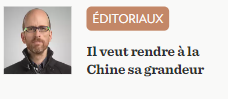
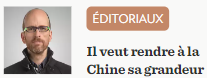
Ajout des images

diff --git a/A22_TP1_LA_PRESSE/index.html b/A22_TP1_LA_PRESSE/index.html
@@ -35,38 +35,73 @@
     <main>
 
         <div id="articles_autres">
-            <div></div>
-            <div></div>
-            <div></div>
-            <div></div>
+            <div>
+                <img src="./Capture_Section_Autres/Capture.PNG" alt="Éditoriaux">
+            </div>
+            <div>
+                <img src="./Capture_Section_Autres/Capture2.PNG" alt="" width="" height="99px">
+            </div>
+            <div>
+                <img src="./Capture_Section_Autres/Capture3.PNG" alt="" width="" height="99px">
+            </div>
+            <div>
+                <img src="./Capture_Section_Autres/Capture4.PNG" alt="" width="" height="">
+            </div>
         </div>
         
         <div class="container">
 
             <div id="articles">
-                <section id="section_top"></section>         
+                <section id="section_top">
+                    <img src="./Main_Article.PNG" alt="" width="775px" height="350px">
+                </section>         
 
                 <section id="section_milieu">
-                    <div></div>
-                    <div></div>
-                    <div></div>
+                    <div class="milieu">
+                        <img src="./Captures_Section_Milieu/Article_1_Section_Milieu.PNG" alt="">
+                    </div>
+                    <div class="milieu">
+                        <img src="./Captures_Section_Milieu/Article_2_Section_Milieu.PNG" alt="">
+                    </div>
+                    <div class="milieu">
+                        <img src="./Captures_Section_Milieu/Article_3_Section_Milieu.PNG" alt="">
+                    </div>
                 </section>
 
                 <section id="section_bas">
-                    <div></div>
-                    <div></div>
-                    <div></div>
-                    <div></div>
+                    <div class="bas">
+                        <img src="./Captures_Section_Bas/Article_1_Section_Bas.PNG" alt="">
+                    </div>
+                    <div class="bas">
+                        <img src="./Captures_Section_Bas/Article_2_Section_Bas.PNG" alt="" width="" height="">
+                    </div>
+                    <div class="bas">
+                        <img src="./Captures_Section_Bas/Article_3_Section_Bas.PNG" alt="" width="" height="">
+                    </div>
+                    <div class="bas">
+                        <img src="./Captures_Section_Bas/Article_4_Section_Bas.PNG" alt="">
+                    </div>
                 </section>
             </div>
 
-            <div id="pub"><div>
+            <div id="pub">
+                <div>
+                    <img src="./Capture_Pubs/Main_Pub.PNG" widht="300px" height="500px">
+                </div>
+                <div>
+                    <img src="./Capture_Pubs/PUB_2.PNG" width="300px" height="500px">
+                </div>
+            </div>
         </div>
 </main>
+
+
+
+
     <footer>
         <div>
 
-        </div>.
+        </div>
     </footer>
 </body>
 </html>         

diff --git a/A22_TP1_LA_PRESSE/styles/style.css b/A22_TP1_LA_PRESSE/styles/style.css
@@ -26,7 +26,7 @@
 
 #articles_autres{
     display:flex;
-    background-color: turquoise;
+    background-color: white;
     width:auto;
     height:100px;
     margin: 30px 95px 30px;
@@ -34,6 +34,11 @@
 }
 
 #articles_autres > div{
+    height:100px;
+    width: 600px;
+}
+
+#articles_autres > img{
     height:100px;
     width: 600px;
 }
@@ -70,6 +75,11 @@
     height:460px;
 }
 
+.milieu > img{
+    width: 258px;
+    height: 460px;
+}
+
 #section_bas {
     background-color:green;
     display:flex;
@@ -84,13 +94,19 @@
     height:300px;
 }
 
+.bas > img{
+    width: 192px;
+    height:298px;
+}
+
 #pub {
+    display:flex;
+    flex-direction:column;
+    gap: 30px;
     background-color:yellow;
     width: 300px;
     height: 1000px;
 }
-
-
 
 #articles {
     display: flex;
